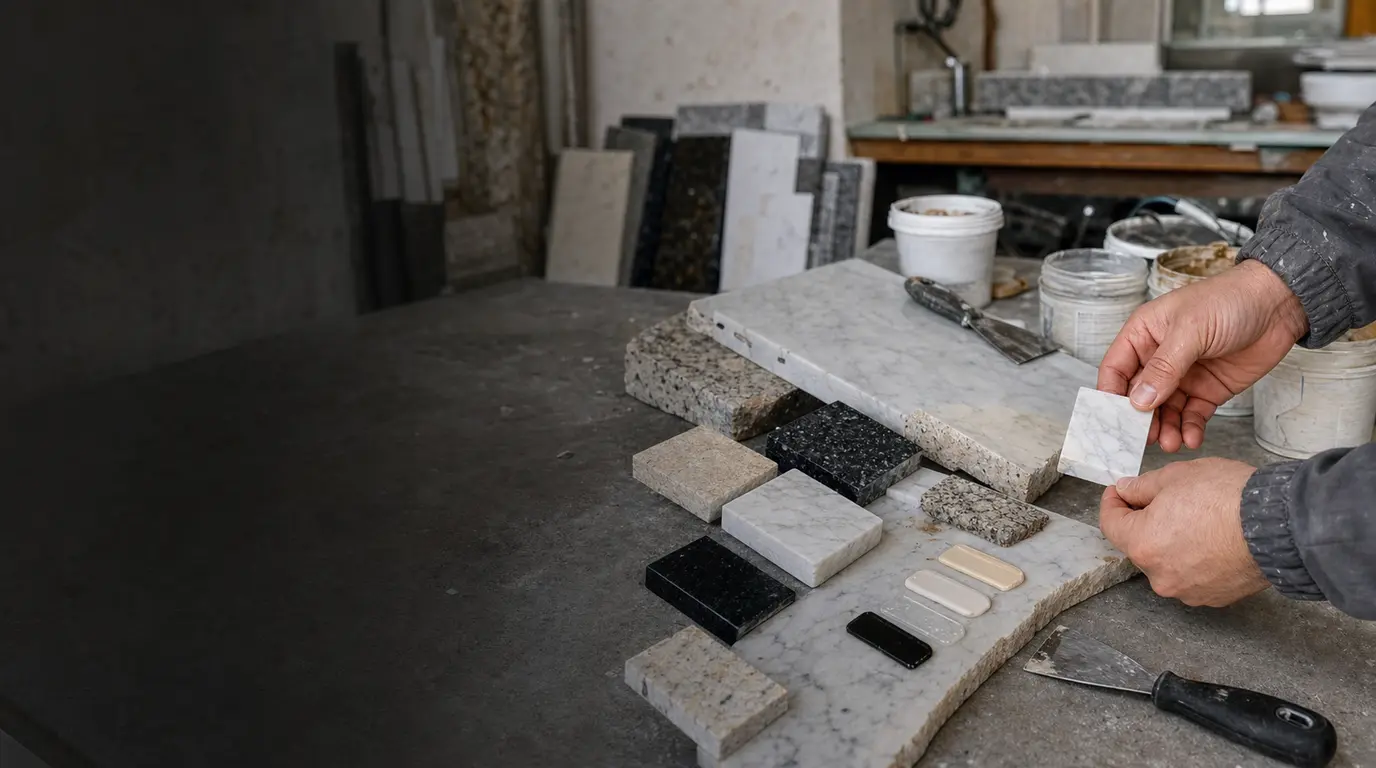
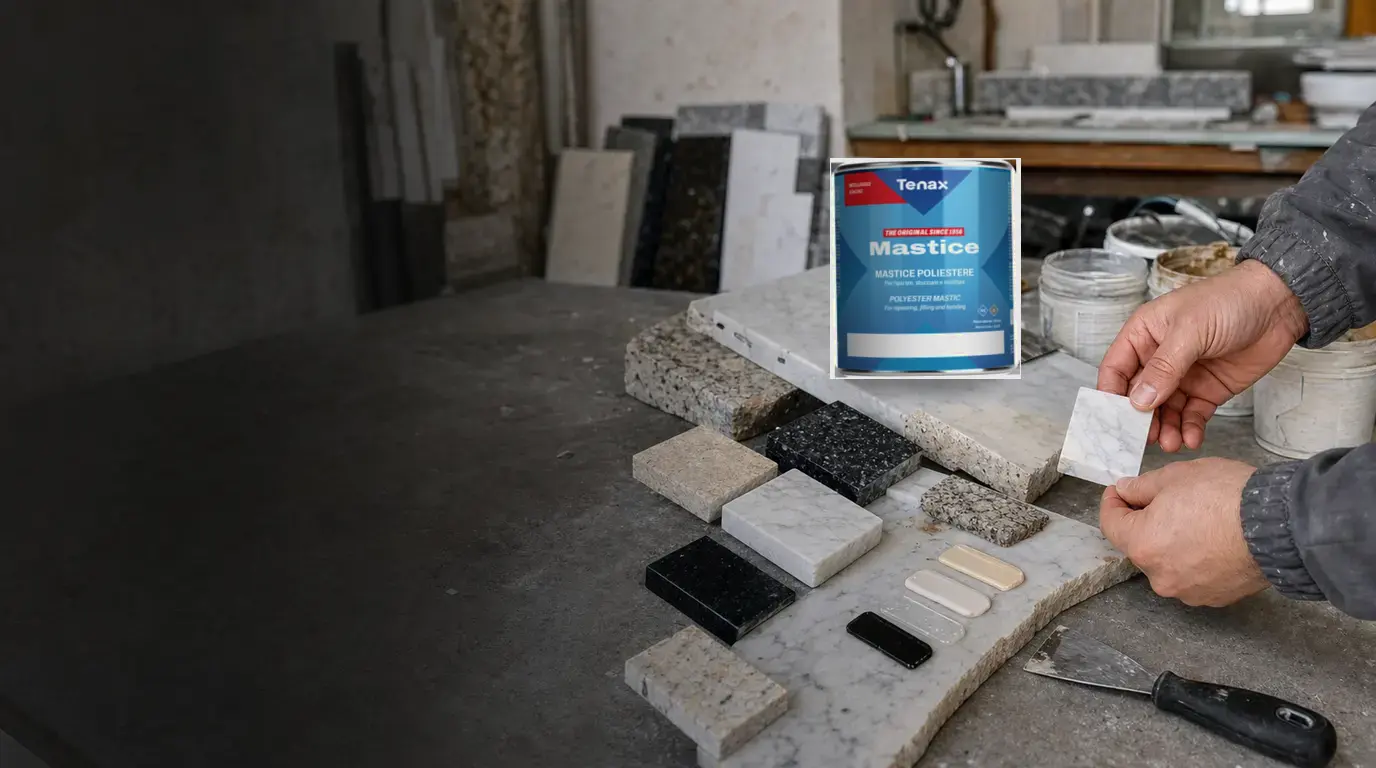
fix(blog): update Mastici Tenax visuals

Changed region(s): [[0.5938, 0.1875, 0.75, 0.5312]]

diff --git a/WORKLOG.md b/WORKLOG.md
@@ -5,6 +5,25 @@ Format: data + commits + descriere + deploy URL + confirmare user.
 
 ---
 
+## 2026-06-16 07:05 UTC -- Corectie vizual hero/OG Mastici Tenax
+
+Articol: `https://ardmag.ro/blog/mastici-tenax-culori-cantitati`
+
+Corectii aplicate:
+- Hero-ul articolului a fost recompozit cu produs Tenax real din catalogul local, nu cu ambalaje generice.
+- OG-ul a fost regenerat din aceeasi sursa vizuala la `1200x630`.
+- `bg.webp` a fost sincronizat cu hero-ul nou pentru consistenta intre articol si asset-urile derivate.
+- `prompt.json` documenteaza sursele reale folosite si regulile vizuale: fara etichete inventate, fara ambalaj fals, fara clipping.
+
+Validari locale:
+- Dimensiuni verificate: hero `1376x768`, OG `1200x630`.
[1 lines of base64/hex data omitted]
+- Contact sheet vizual local: `tmp/ardmag-tenax-visuals/final-contact-sheet.jpg`.
+- `npm run build` PASS cu env minim local (`NEXT_PUBLIC_MEDUSA_PUBLISHABLE_KEY=pk_build_validation`, `MEDUSA_BACKEND_URL=https://api.ardmag.ro`, `NEXT_PUBLIC_BASE_URL=https://ardmag.ro`); ruta SSG include `/ro/blog/mastici-tenax-culori-cantitati`.
+
+Metricool:
+- Neatins. Nu s-au facut citiri, scrieri, resync-uri sau programari Metricool.
+
 ## 2026-06-04 10:40 UTC -- Corectii editoriale Delta detergenti + resync feed Metricool
 
 Deploy: `vercel --prod --yes` incercat din root-ul site, blocat de Vercel CLI cu `The specified token is not valid`; publicarea continua prin `git push` pe master si verificare live.